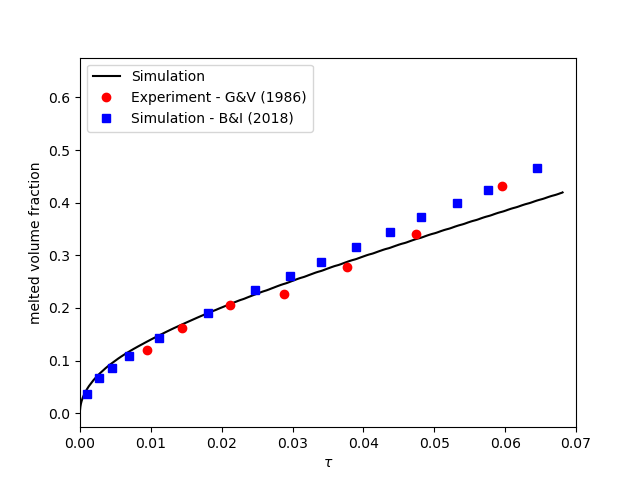
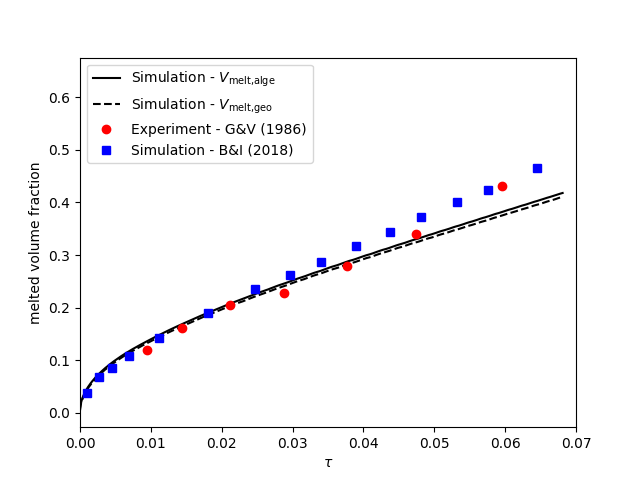
update melting cavity example

diff --git a/examples/multiphysics/melting-cavity/melting-cavity.py b/examples/multiphysics/melting-cavity/melting-cavity.py
@@ -1,4 +1,4 @@
-# SPDX-FileCopyrightText: Copyright (c) 2023-2024 The Lethe Authors
+# SPDX-FileCopyrightText: Copyright (c) 2023-2024, 2026 The Lethe Authors
 # SPDX-License-Identifier: Apache-2.0 WITH LLVM-exception OR LGPL-2.1-or-later
 
 #############################################################################
@@ -30,10 +30,11 @@ import sys
 H=0.714
 alpha =  0.040516842071415184 # Used for the time scaling
 St = 0.041 # Used for the time scaling
-time_scaling = St * alpha 
+time_scaling = St * alpha
 y_top	= 0.999 * H
 y_mid	= 0.5 * H
 y_bot	= 0.001 * H
+total_volume = 1 * 0.714
 
 #Set temperature to search for maximum x
 temperature_limit = 29.7
@@ -84,7 +85,7 @@ for vtu_file in (list_vtu):
     sampled_data_mid = sim.sample_over_line(a_mid, b_mid, resolution=1000)
     temperature_mid = pd.DataFrame(sampled_data_mid["temperature"])
     points_mid = pd.DataFrame(sampled_data_mid.points)
-    
+
     #Find min 'x' in temperature > temperature_limit (top)
     fluid1_points = points_top[temperature_top[0] < temperature_limit].values
     x_min = fluid1_points[0][0]
@@ -124,10 +125,10 @@ melted_x_exp = [0.00946, 0.01433, 0.02113, 0.02877, 0.03774, 0.04739, 0.05956, 0
 melted_y_exp = [0.11972, 0.16112, 0.20476, 0.22713, 0.2786, 0.34014, 0.43077, 0.5035, 0.56392, 0.61664]
 
 #Simulation data by Blais and Ilinca 2018
-melted_x_blais=[0.0009408610966497919,0.0026209691082628825,0.004569890217872624 ,0.0068548364163561895,0.011155915715326668,	
-                0.018010754310777356,0.024731181999040716,0.034005377700162306,0.03891129082781425,0.043682793048278865,0.04811827889624767 ,0.0532258062055861,0.02963709512669266 ,0.05759408877905576 , 		
-                0.06451613064900559,0.07432795690430948,0.08266128497149776,0.08931451374345097,0.09596774251540417,0.09899193344975654 ]	
-melted_y_blais= [0.0372093373985142, 0.0669768073173256, 0.0855814156911383, 0.1079070181302468, 0.1423255798170668, 0.1897674397560892, 0.2344186446343063, 0.2874418750203834, 0.3162790662601486, 0.3441860391463121,0.37209301203247547,0.39999998491863886,0.2613953388414236,	0.42418608439039535,0.4651162952033166,	0.5153488705285886,	0.5600000150813612,	0.5934883885773017,	0.6279069804268439,	0.6437209337398515]	
+melted_x_blais=[0.0009408610966497919,0.0026209691082628825,0.004569890217872624 ,0.0068548364163561895,0.011155915715326668,
+                0.018010754310777356,0.024731181999040716,0.034005377700162306,0.03891129082781425,0.043682793048278865,0.04811827889624767 ,0.0532258062055861,0.02963709512669266 ,0.05759408877905576 ,
+                0.06451613064900559,0.07432795690430948,0.08266128497149776,0.08931451374345097,0.09596774251540417,0.09899193344975654 ]
+melted_y_blais= [0.0372093373985142, 0.0669768073173256, 0.0855814156911383, 0.1079070181302468, 0.1423255798170668, 0.1897674397560892, 0.2344186446343063, 0.2874418750203834, 0.3162790662601486, 0.3441860391463121,0.37209301203247547,0.39999998491863886,0.2613953388414236,	0.42418608439039535,0.4651162952033166,	0.5153488705285886,	0.5600000150813612,	0.5934883885773017,	0.6279069804268439,	0.6437209337398515]
 
 
 
@@ -152,12 +153,17 @@ plt.show()
 plt.close()
 
 #Load melted volume
-t_list,melt_frac=np.loadtxt(output_path+"/liquid_fraction.dat",unpack=True,skiprows=1)
+t_list_alge,melt_volume_alge=np.loadtxt(output_path+"/melt_volume_alge.dat",unpack=True,skiprows=1)
+t_list_geo,melt_volume_geo,_=np.loadtxt(output_path+"/melt_volume_geo.dat",unpack=True,skiprows=1)
+
+melt_frac_alge = [V/total_volume for V in melt_volume_alge]
+melt_frac_geo = [V/total_volume for V in melt_volume_geo]
 
 #Plot melted volume
 fig1 = plt.figure()
 ax1 = fig1.add_subplot(111)
-ax1.plot(t_list * time_scaling , melt_frac, '-k', label="Simulation")
+ax1.plot(t_list_alge * time_scaling , melt_frac_alge, '-k', label=r"Simulation - $V_\text{melt,alge}$")
+ax1.plot(t_list_geo * time_scaling , melt_frac_geo, '--k', label=r"Simulation - $V_\text{melt,geo}$")
 ax1.plot(melted_x_exp, melted_y_exp, 'ro', label="Experiment - G&V (1986)")
 ax1.plot(melted_x_blais, melted_y_blais, 'bs', label="Simulation - B&I (2018)")
 ax1.set_ylabel(r'melted volume fraction')

diff --git a/source/solvers/heat_transfer.cc b/source/solvers/heat_transfer.cc
@@ -1998,6 +1998,12 @@ HeatTransfer<dim>::postprocess_algebraic_melt_volume()
   // Local variable to check if it is a CLS simulation
   const bool gather_cls = this->simulation_parameters.multiphysics.CLS;
 
+  AssertThrow(!(!gather_cls && this->simulation_parameters.post_processing
+                                   .monitored_fluid_with_phase_change ==
+                                 Parameters::FluidIndicator::fluid1),
+              ExcMessage(
+                "For single-fluid flows only 'fluid 0' can be monitored."));
+
   // Initialize heat transfer information
   std::vector<double> local_temperature_values(n_q_points);
   FEValues<dim>       fe_values_ht(*this->temperature_mapping,
@@ -2164,6 +2170,12 @@ HeatTransfer<dim>::postprocess_geometric_melt_volume_and_surface()
   // Local variable to check if it is a CLS simulation
   const bool gather_cls = this->simulation_parameters.multiphysics.CLS;
 
+  AssertThrow(!(!gather_cls && this->simulation_parameters.post_processing
+                                   .monitored_fluid_with_phase_change ==
+                                 Parameters::FluidIndicator::fluid1),
+              ExcMessage(
+                "For single-fluid flows only 'fluid 0' can be monitored."));
+
   // Initializes variables for the melt volume and surface
   double melt_volume;
   double melt_surface;
@@ -2218,7 +2230,7 @@ HeatTransfer<dim>::postprocess_geometric_melt_volume_and_surface()
                              (*phase_indicator_vector_owned_copy)[dof_id]);
         }
     }
-  else // Single fluid flow
+  else // Single-fluid flow
     {
       // Transpose temperature to get volume of the region where the temperature
       // is over the melting temperature

diff --git a/examples/multiphysics/melting-cavity/compare-melting-cavity.py b/examples/multiphysics/melting-cavity/compare-melting-cavity.py
@@ -1,4 +1,4 @@
-# SPDX-FileCopyrightText: Copyright (c) 2024 The Lethe Authors
+# SPDX-FileCopyrightText: Copyright (c) 2024, 2026 The Lethe Authors
 # SPDX-License-Identifier: Apache-2.0 WITH LLVM-exception OR LGPL-2.1-or-later
 
 #############################################################################
@@ -33,6 +33,7 @@ time_scaling = St * alpha
 y_top	= 0.999 * H
 y_mid	= 0.5 * H
 y_bot	= 0.001 * H
+total_volume = 1 * 0.714
 
 #Set temperature to search for maximum x
 temperature_limit = 29.7
@@ -63,9 +64,9 @@ ax1.set_xlim([0, 0.07])
 
 #Load melted volume
 for c in range(1,len(sys.argv)):
-    t_list,melt_frac=np.loadtxt(sys.argv[c]+"/liquid_fraction.dat",unpack=True,skiprows=1)
-    ax1.plot(t_list * time_scaling , melt_frac, '-', label=case_list[c-1])
-
+    t_list_alge,melt_volume_alge=np.loadtxt(sys.argv[c]+"/melt_volume_alge.dat",unpack=True,skiprows=1)
+    melt_frac_alge = [V/total_volume for V in melt_volume_alge]
+    ax1.plot(t_list_alge * time_scaling , melt_frac_alge, '-', label=case_list[c-1])
 
 ax1.legend(loc="upper left")
 fig1.savefig(f'./comparison-melted-volume-fraction.png')

diff --git a/doc/source/examples/multiphysics/melting-cavity/melting-cavity.rst b/doc/source/examples/multiphysics/melting-cavity/melting-cavity.rst
@@ -202,6 +202,24 @@ The solid block melts into liquid in this example, hence in the ``physical prope
     end
 
 
+Post-processing
+~~~~~~~~~~~~~~~~~~~
+
+In the ``post-processing`` subsection the algebraic and geometric melt volume computation are enabled. For the geometric approach the ``melting temperature`` is set to the liquidus temperature.
+
+.. seealso::
+
+  For more information on the computation of the melt volume, you may consult the :doc:`post-processing documentation <../../../parameters/cfd/post_processing>`
+
+.. code-block:: text
+
+  subsection post-processing
+    set calculate algebraic melt volume = true
+    set calculate geometric melt volume = true
+    set melting temperature             = 29.8
+    set verbosity                       = verbose
+  end
+
 ---------------------------
 Running the Simulation
 ---------------------------
@@ -238,8 +256,7 @@ A python post-processing code `(melting-cavity.py)`
 is added to the example folder to post-process the results.
 Run ``python3 ./melting-cavity.py ./output`` to execute this 
 post-processing code, where ``./output`` is the directory that 
-contains the simulation results. In post-processing, the position of the solid-liquid interface at the top, center and bottom of the cavity, as well as the melted volume fraction are plotted and compared with experiments of Gau and Viskanta [#gau1986]_. Note that the discrepancies in the interfaces are attributed to the two-dimensional simulations and they were also observed and reported by Blais and Ilinca [#blais2018]_.
-
+contains the simulation results. In post-processing, the position of the solid-liquid interface at the top, center and bottom of the cavity, as well as the melted volume fraction are plotted and compared with experiments of Gau and Viskanta [#gau1986]_. Note that the discrepancies in the interfaces are attributed to the two-dimensional simulations and they were also observed and reported by Blais and Ilinca [#blais2018]_. When comparing the current simulation results, both the algebraic and geometric melt volume results (indicated respectively by :math:`V_\mathrm{melt,alge}` and :math:`V_\mathrm{melt,geo}`) give similar liquid fractions, as expected, since the mushy zone is narrow. For the following studies, we will maintain only the algebraic melt volume computation.
 
 .. image:: images/xmax-t.png
     :alt: bubble_rise_velocity
